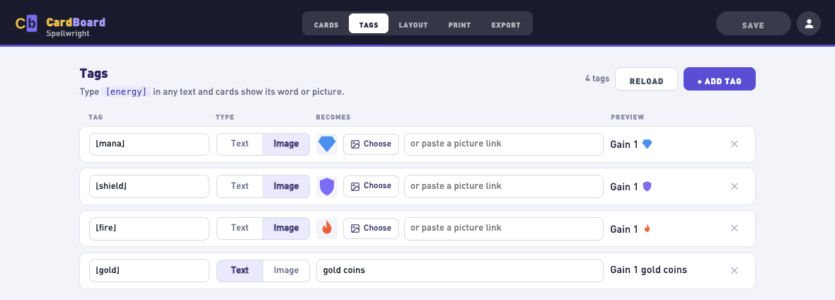
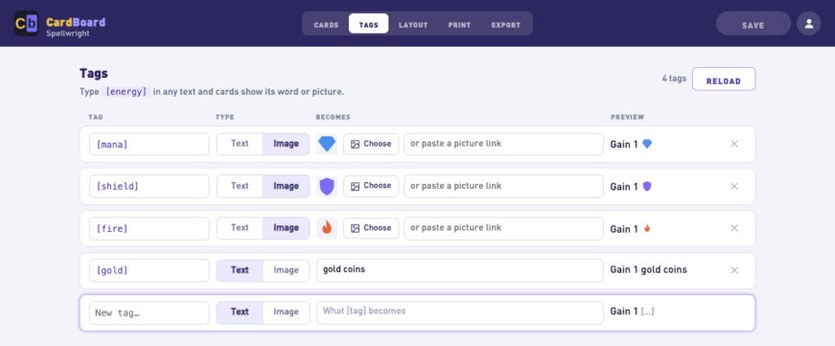
Cb help: fresh screenshots (layout, cards, tags, print, export, mappings, menu)

diff --git a/source/cardboard/help/index.php b/source/cardboard/help/index.php
@@ -513,7 +513,7 @@ table.keys tr.h td { background:#f6f5fd; font-family:'DINBlack',sans-serif; font
 <!-- ───────────────────────── Printing & sharing ───────────────────────── -->
 <section class="topic" id="print">
   <h2><span class="n">19</span>Print</h2>
-  <?= shot('print', 'Copies from the Count field: 16 cards, 9 per page, with crop marks.') ?>
+  <?= shot('print', 'Double-sided: each page of fronts sits next to its backs. Zoom in with − / +, or download a PDF.') ?>
   <ul>
     <li><b>Paper</b> Letter or A4, <b>Orientation</b>, and the <b>Gap</b> between cards (none, 1/16 in, 1/8 in).</li>
     <li><b>Cut lines</b> — crop marks, card outlines, or none.</li>

diff --git a/docs/HANDOFF.md b/docs/HANDOFF.md
@@ -141,8 +141,10 @@ Last updated: 2026-11-26.
   back's rage-frame image element needs a link to `frame_rage.png`. Power Number has no white outline (CardBoard
   text has no outline). Fonts stand in: Roboto Condensed for Oswald, DIN Medium for Eurostile.
 - **CardBoard help**: text is up to date (2026-11-26: formatting, tags, share links, designs page, print zoom/PDF,
-  mappings for fixed elements and groups, Auto size, padding). Screenshots weren't retaken — several (Tags, Print,
-  Settings, the left panel's old Text / Image sections) show the older look.
+  mappings for fixed elements and groups, Auto size, padding). Screenshots retaken the same day (layout, cards,
+  tags, print, export, text-selected, mapping-0/1/2, menu) with the harness in the session's `outputs/cbshot`
+  (`scenes.py` builds `_shot_*.html`, screenshot the preview, `crop.py` crops into `images/help/cardboard/`).
+  Not retaken: Settings and the older detail shots.
 - Earlier offers not taken up (only if asked): split collaborator T&M by contract; bio fields in Pb Profile; centre
   the session chevron; "Remake slip" for payments; restyle the TM/Pulse/Note setup pages; a marker for newly added
   payments in Activity.
